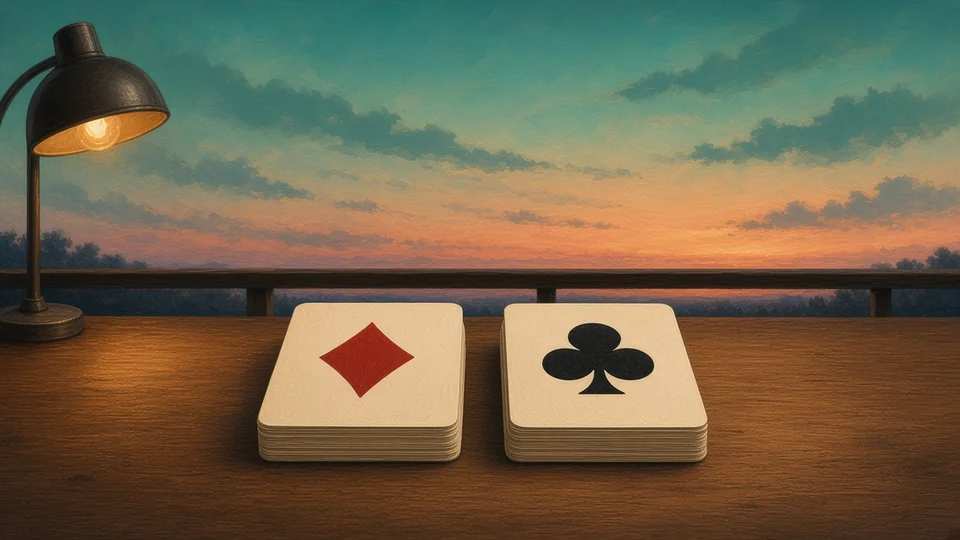
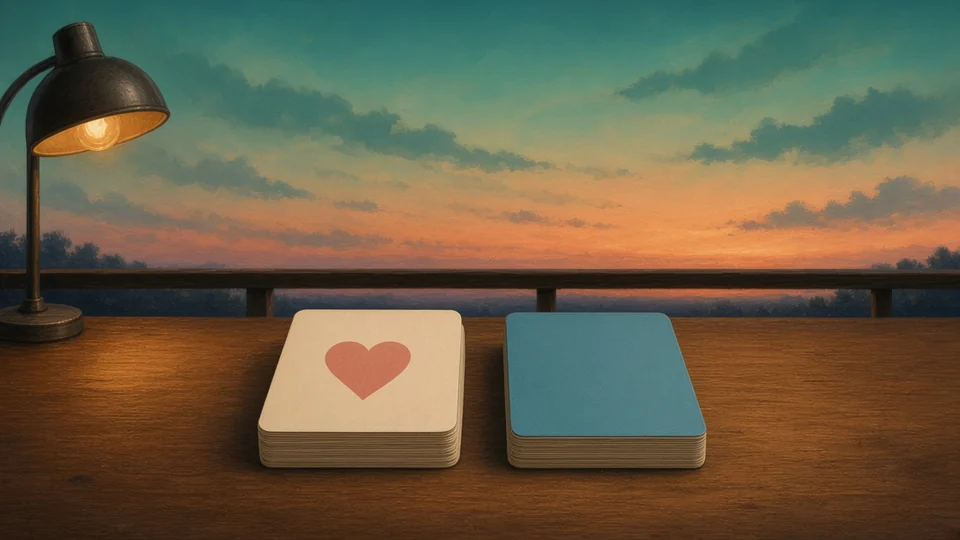
Add the Canasta dusk tile as a heart stack and teal back.
Sheet-only at public/assets/art/dusk/canasta.webp. Do not put Canasta on the picker.

Changed region(s): [[0.25, 0.5333, 0.75, 0.8889], [0.2812, 0.6815, 0.3125, 0.7111]]

diff --git a/docs/solutions/demo-art-dusk.md b/docs/solutions/demo-art-dusk.md
@@ -20,9 +20,9 @@ On localhost or `*-mattwilliamsproducts-projects.vercel.app`:
 
 v2 tiles live at `public/assets/art/dusk/<slug>.webp`. Later passes replace those files in place. Do not rename the slugs.
 
-The attached v2 binaries did not mount in this environment. The committed WebPs reconstruct those six tighter frames so crop and slugs can be judged. Overwrite the same files with the original rasters.
+The five mapped v2 binaries did not mount in this environment. Those committed WebPs reconstruct the tighter frames so crop and slugs can be judged. Overwrite the same files with the original rasters.
 
-Mapped slugs: `five-crowns`, `818`, `wizard`, `flip7`, `beat-heat`. `canasta.webp` is sheet-only. Rook keeps `public/theme/game-card-rook-thumb.jpg`.
+Mapped slugs: `five-crowns`, `818`, `wizard`, `flip7`, `beat-heat`. `canasta.webp` is sheet-only: cream heart stack (hand) and a teal back (foot). The official 960×540 attachment did not mount at `back-porch/art/dusk-v2/canasta.webp`; the committed file reconstructs that frame at the same cover crop. Rook keeps `public/theme/game-card-rook-thumb.jpg`.
 
 Tile CSS: `background-size: cover` and `background-position: 50% 55%`. Wizard is `50% 46%` so the hat tip stays in the crop. Cropping the small lamp is fine. Do not letterbox.
 
@@ -33,7 +33,7 @@ Tile CSS: `background-size: cover` and `background-position: 50% 55%`. Wizard is
 - **Wizard** — one hat, one card, one candle.
 - **Flip 7** — one 7 flipping off a deck.
 - **Beat the Heat** — one chili on a short card fan.
-- **Canasta** — two small stacks (hand and foot) on the porch table. Not a picker game on this branch.
+- **Canasta** — two small stacks on the porch table: a cream heart face (hand) and a teal back (foot). Not a picker game on this branch.
 - **Rook** — keeps the current beach thumb. No dusk Rook on this branch.
 
 ## Logo

diff --git a/docs/taste.md b/docs/taste.md
@@ -26,6 +26,7 @@ Canonical list: [taste-ledger.md](taste-ledger.md). After every durable Matt cor
 - One player per Home seat row, with drag and small up/down, so Tonight's Table spends its height on people.
 - Tonight's Table fills the left Home column down to Start a New Match. Extra height goes into seat cards, not padding.
 - Recent nights carry a small place podium from the same ranking helper as Records, not a second story.
+- Canasta dusk is a cream heart stack and a teal back (hand and foot), sheet-only until Matt puts it on the shelf.
 
 ### Kills
 
@@ -60,6 +61,7 @@ Canonical list: [taste-ledger.md](taste-ledger.md). After every durable Matt cor
 - Dead leftover height between Tonight's Table and Start a New Match on laptop Home, or empty padding inside those cards instead of seats and game art.
 - Edit Seating plus Earlier/Later when the Home list can reorder in place.
 - A second ranking function for Recent nights, or a podium on an Incomplete night.
+- Adding Canasta to the game registry or Home picker from this art pass.
 
 ## Prefer
 

diff --git a/docs/taste-ledger.md b/docs/taste-ledger.md
@@ -22,6 +22,7 @@ Seeded from Prefer, Avoid, and Kill in `docs/taste.md`. Product rules stay in `d
 - One player per Home seat row, with drag and small up/down, so Tonight's Table spends its height on people.
 - Tonight's Table fills the left Home column down to Start a New Match. Extra height goes into seat cards, not padding.
 - Recent nights carry a small place podium from the same ranking helper as Records, not a second story.
+- Canasta dusk is a cream heart stack and a teal back (hand and foot), sheet-only until Matt puts it on the shelf.
 
 ## Kills
 
@@ -57,3 +58,4 @@ Seeded from Prefer, Avoid, and Kill in `docs/taste.md`. Product rules stay in `d
 - Dead leftover height between Tonight's Table and Start a New Match on laptop Home, or empty padding inside those cards instead of seats and game art.
 - Edit Seating plus Earlier/Later when the Home list can reorder in place.
 - A second ranking function for Recent nights, or a podium on an Incomplete night.
+- Adding Canasta to the game registry or Home picker from this art pass.

diff --git a/docs/solutions/gate-log.md b/docs/solutions/gate-log.md
@@ -75,3 +75,4 @@ The table starts with a header and one example row. The example is the format. I
 | 2026-10-27 | home-seats | taste_ui. Single-column Home seats, handle drag, no Edit Seating. Live match roster unchanged. | 2 | n/a | fallback | Gate C. Conservative. Check pass. 1024/1440 8-seat bottoms 0px. Mid-drag looked. Draft only. Do not undraft or merge. |
 | 2026-10-27 | dusk-drop-rook | taste_ui. Drop Rook from dusk mapping. Canasta sheet-only. Rook keeps theme thumb. | 2 | n/a | fallback | Gate B. Same dusk draft. Do not undraft or merge. |
 | 2026-10-27 | dusk-drop-rook | taste_ui. Drop Rook from dusk mapping. Canasta sheet-only. Rook keeps theme thumb. | 2 | n/a | fallback | Gate C. Conservative. test-demo-art pass. Dusk Rook still uses game-card-rook-thumb. No Canasta picker. Draft only. Do not undraft or merge. |
+| 2026-10-27 | dusk-canasta | taste_ui. Official Canasta dusk tile (heart + teal back) at canasta.webp. Sheet-only. | 1 | n/a | fallback | Gate B. Same dusk draft. Do not undraft or merge. |
